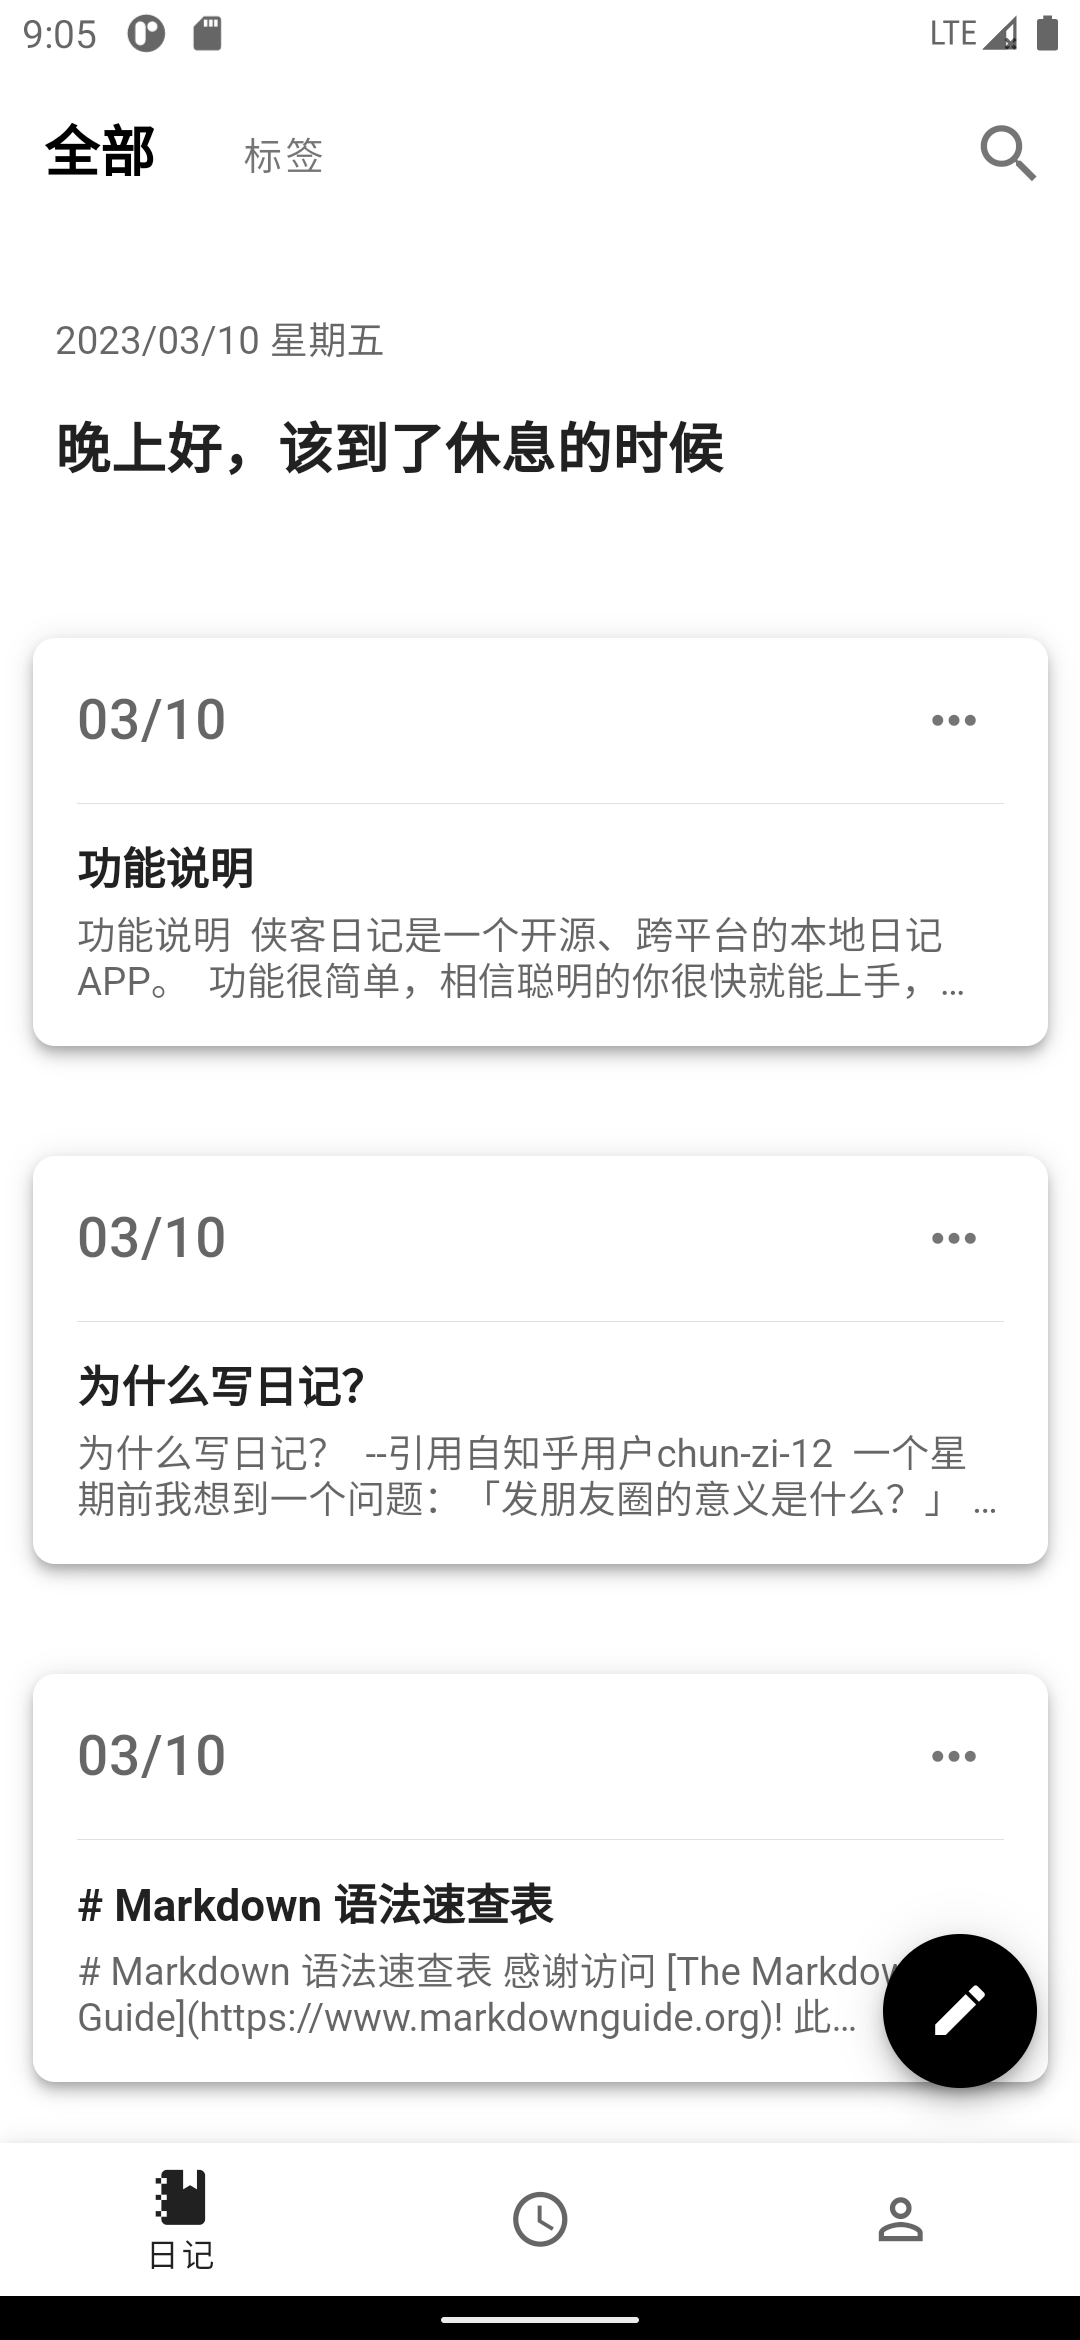
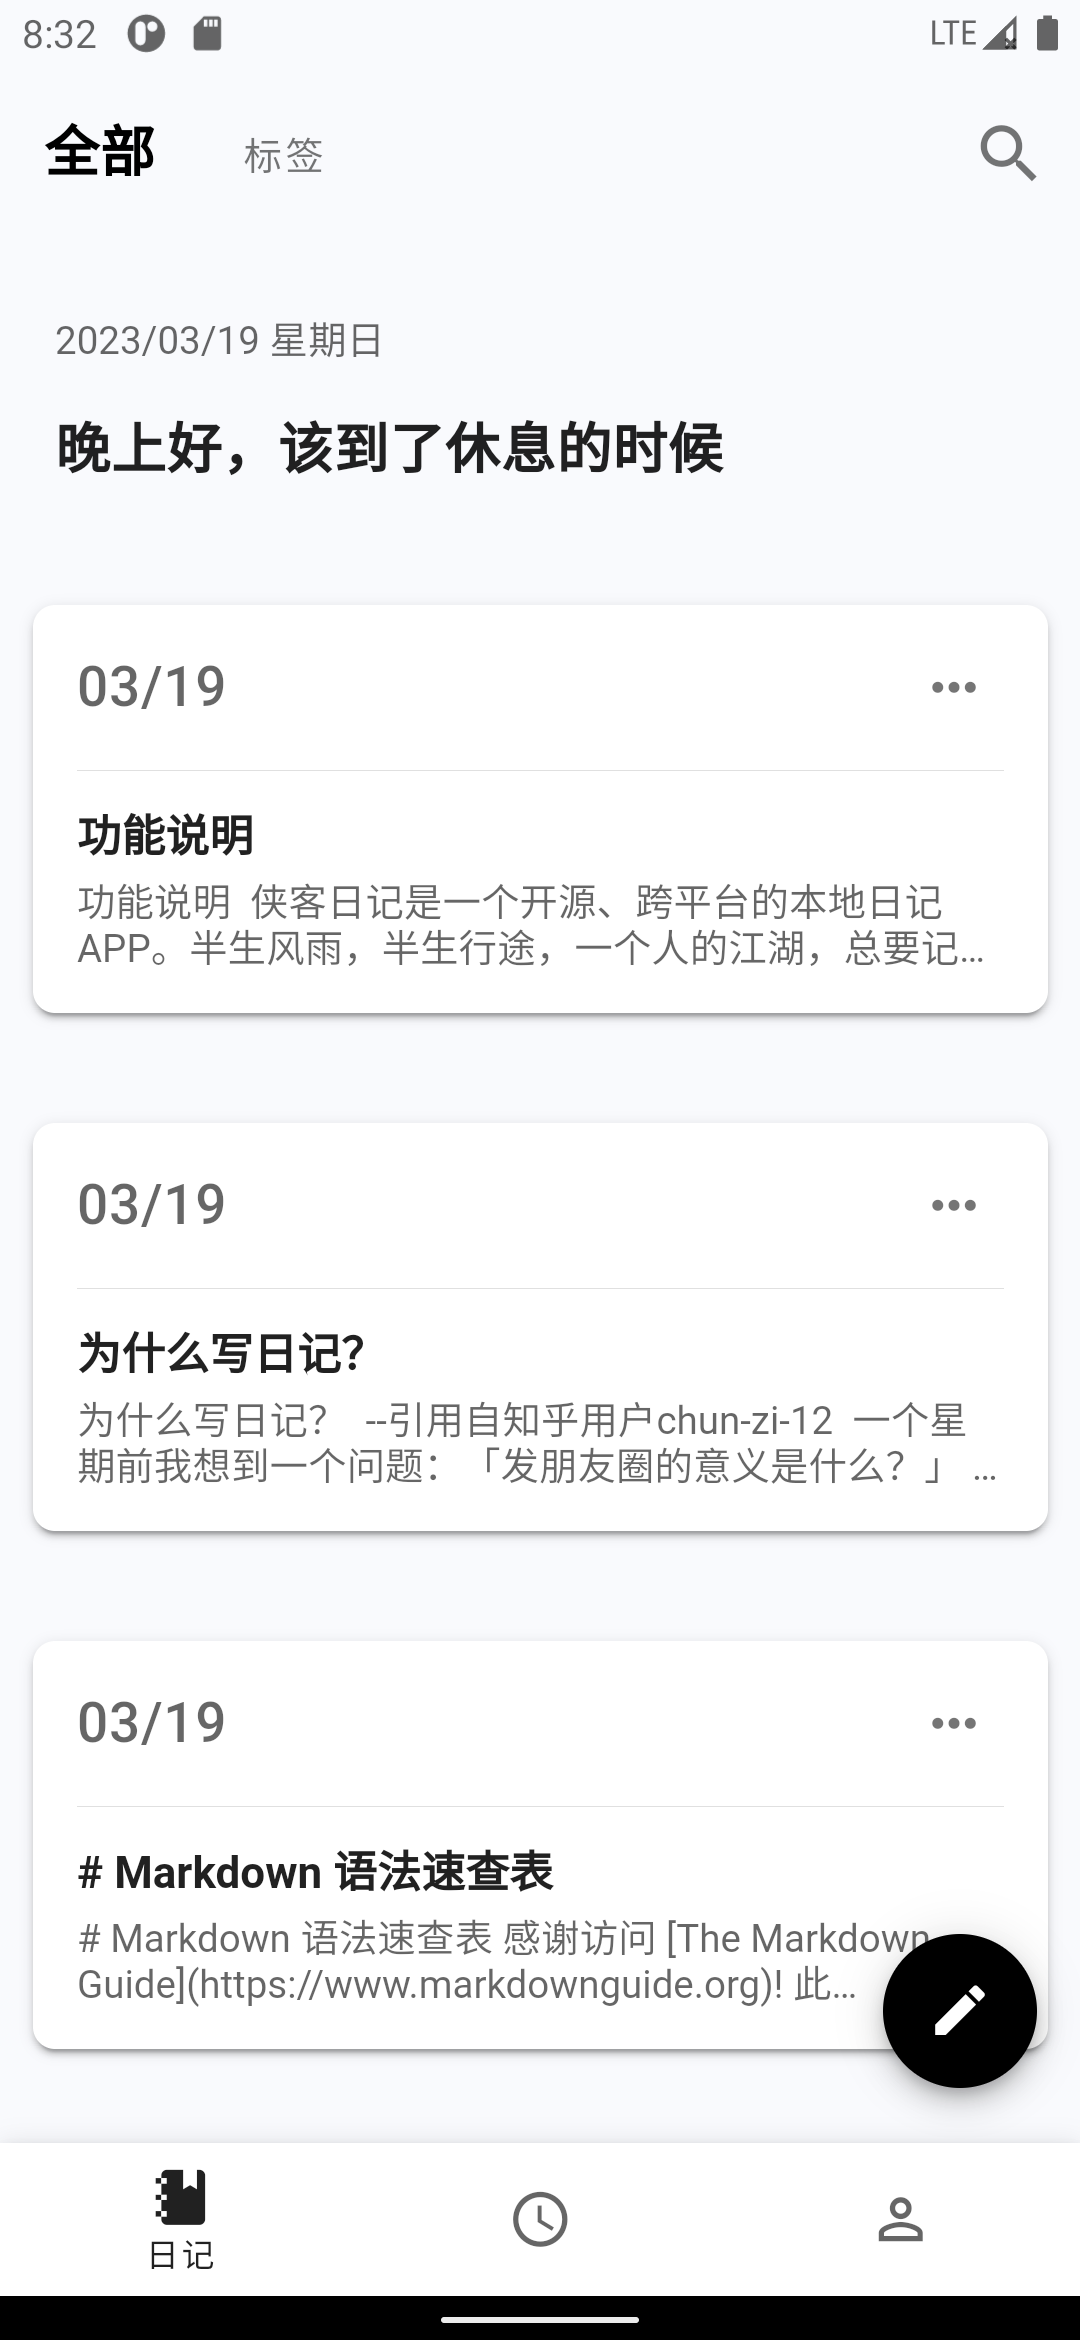
Update Images

diff --git a/SwashbucklerDiary/wwwroot/css/app.css b/SwashbucklerDiary/wwwroot/css/app.css
@@ -254,11 +254,15 @@ a, .btn-link {
 
 .vditor-reset {
     border-radius: 8px;
-    background-color: var(--panel-background-color) !important;
 }
 
-.theme--dark .vditor-reset{
-    color:#fff;
+.theme--light .vditor-reset {
+    background-color: #f9fafd !important;
+}
+
+.theme--dark .vditor-reset {
+    background-color: #2e2e2e !important;
+    color: #fff;
 }
 
 .theme--light .icon-btn{

diff --git a/SwashbucklerDiary/Pages/AchievementPage.razor.cs b/SwashbucklerDiary/Pages/AchievementPage.razor.cs
@@ -40,7 +40,7 @@ namespace SwashbucklerDiary.Pages
 
         private string GetProgressRateColor(AchievementModel achievement)
         {
-            return achievement.UserAchievement.IsCompleted && Light ? "black" : "grey lighten-1";
+            return achievement.UserAchievement.IsCompleted && Light ? "#2e2e2e" : "grey lighten-1";
         }
 
         private string GetProgressRateTextColor(AchievementModel achievement)
